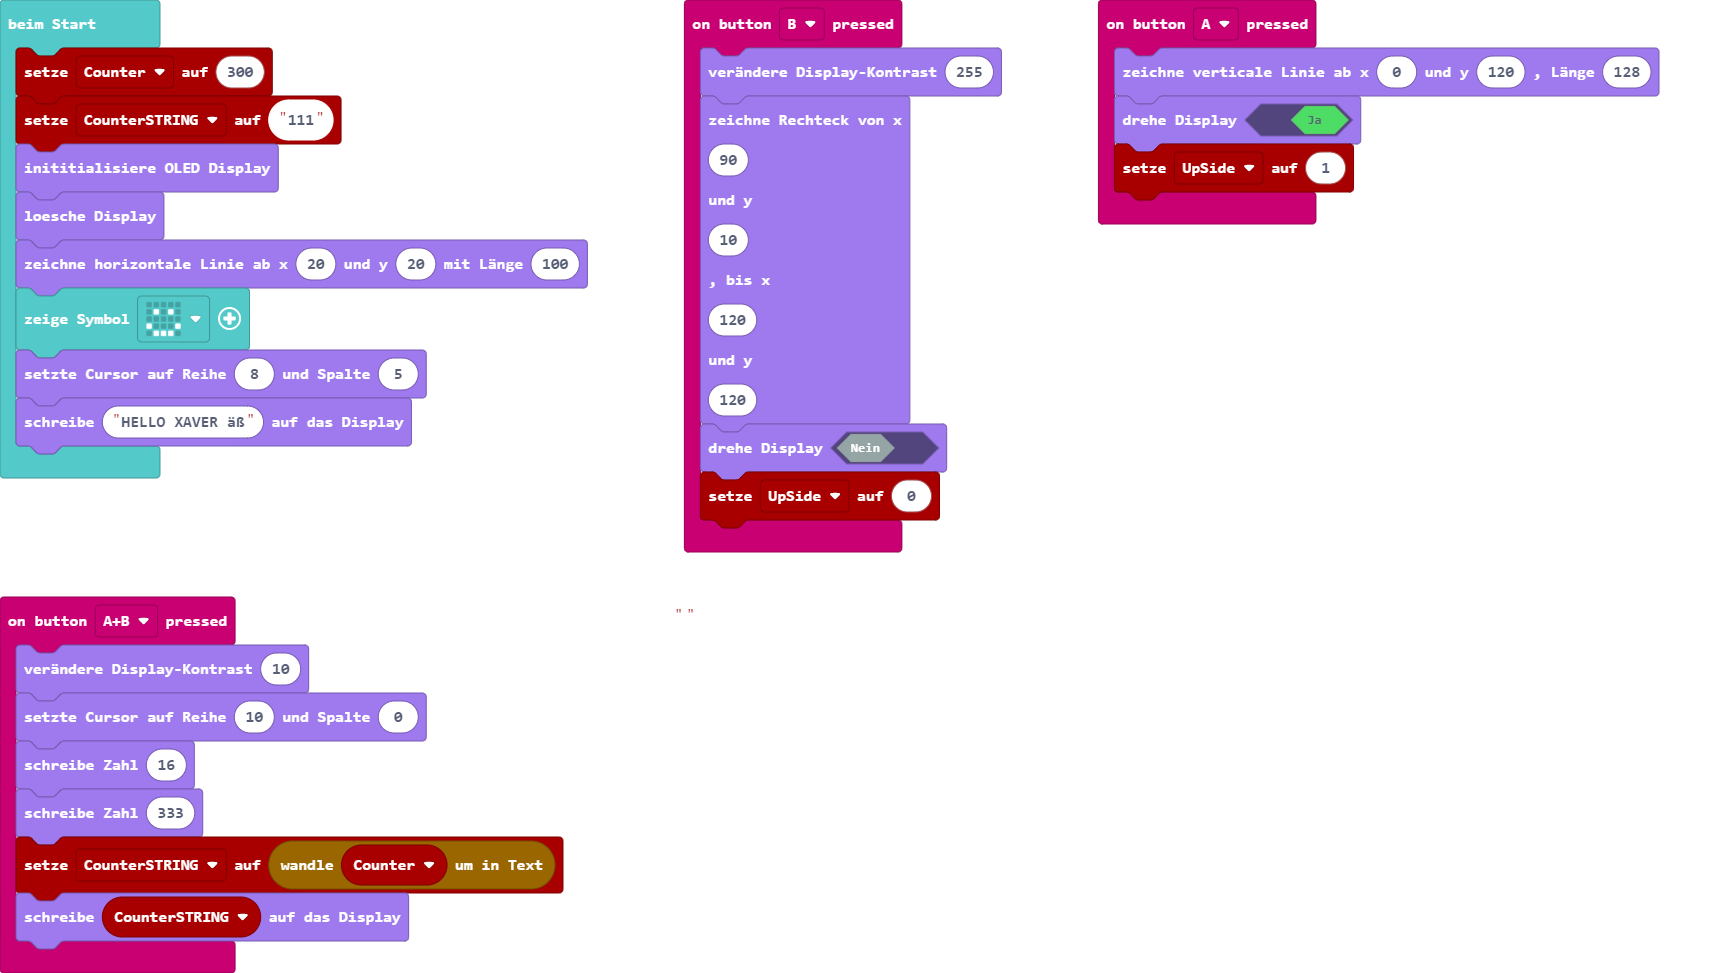
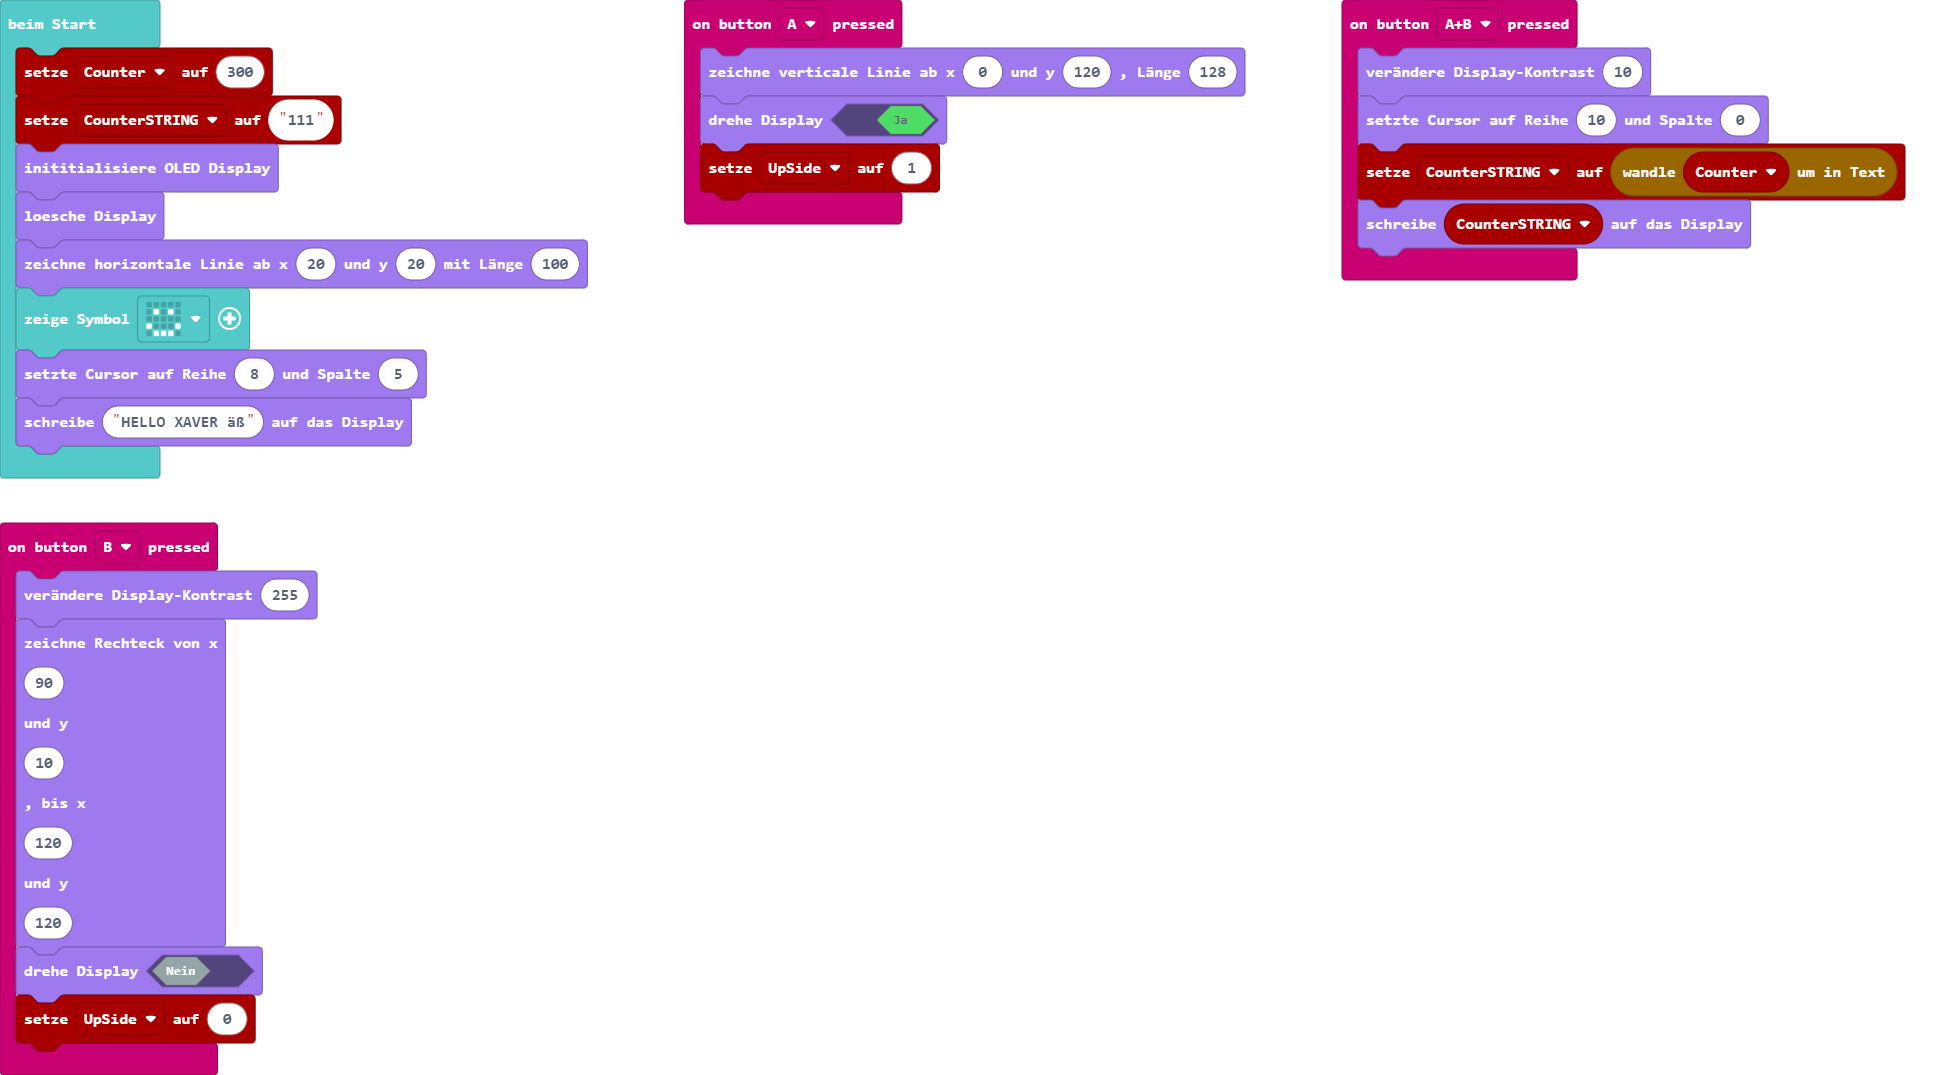
Aktualisiere main.blocks, main.ts, custom.ts

Changed region(s): [[0.0, 0.0, 0.3407, 1.0], [0.3407, 0.0, 0.9912, 0.5858]]

diff --git a/custom.ts b/custom.ts
@@ -59,7 +59,6 @@ namespace groveOledDisplay {
     /**
      * Writes a string at the current cursor position at the display.
      */
-    //% blockId=grove_write_string
     //% block="schreibe %s|auf das Display"
     //% s.defl="Hello"
     //% weight=90
@@ -82,8 +81,8 @@ namespace groveOledDisplay {
     //% blockId=grove_write_custom_char 
     //% advanced=true
     //% block="schreibe eigenes Zeichen %c"
-    //% weight=50
     //% advanced=true
+    //% weight=30
     export function writeCustomChar(c: string) {
         for (let i = 0; i < 8; i++) {
             sendData(c.charCodeAt(i));
@@ -94,7 +93,6 @@ namespace groveOledDisplay {
         /**
          * Initialize the OLED Display
         */
-        //% blockId=grove_oled_init 
         //% block="inititialisiere OLED Display"
         //% advanced=false
         //% weight=100
@@ -126,7 +124,6 @@ namespace groveOledDisplay {
          * @param row which row to display - range from 0 to 15
          * @param col which col to display - range from 0 to 127
         */
-        //% blockId=grove_oled_set_text_xy 
         //% block="setzte Cursor auf Reihe|%row|und Spalte|%col"
         //% row.min=0 row.max=15
         //% col.min=0 col.max=127
@@ -146,7 +143,6 @@ namespace groveOledDisplay {
          * Flip the dispay up side down
          * @param direction Down to flip the display and Up to turn back to normal direction 
          */
-        //% blockId=grove_oled_flip_display 
         //% block="drehe Display $direction"
         //% direction.shadow="toggleYesNo"
         //% advanced=false
@@ -174,8 +170,8 @@ namespace groveOledDisplay {
         /**
          * Clear entire display
         */
-        //% blockId=grove_oled_clear_display 
         //% block="loesche Display"
+        //% advanced=false
         //% weight=99
         export function clearDisplay() {
             for(let i=0; i<16;i++){
@@ -193,8 +189,8 @@ namespace groveOledDisplay {
          * Display an integer number at the current cursor position
          * @param num an integer number to display.
         */
-        //% blockId=grove_oled_put_number 
         //% block="schreibe Zahl |%num|"
+        //% advanced=false
         //% weight=89
         export function putNumber(num:number) {
             
@@ -206,12 +202,11 @@ namespace groveOledDisplay {
          * Adjust the contrast of the display
          * @param num contrast value from 0 to 255.
         */
-        //% blockId=grove_oled_set_contrast 
         //% block="verändere Display-Kontrast |%num|"
         //% num.min=0 num.max=255
         //% num.defl=80
         //% advanced=true
-        //% weight=65
+        //% weight=50
         export function setContrast(num:number) {
              let TempCont = num
                 
@@ -240,11 +235,10 @@ namespace groveOledDisplay {
          * Adjust the background color of the display
          * @param num could be either black or white
         */
-        //% blockId=grove_oled_set_background 
         //% block="verändere Hindergrundfarbe %num"
         //% num.shadow="toggleBlackWhite"
         //% advanced=true
-        //% weight=64
+        //% weight=46
         export function setBackground(num:boolean) {
             if (num){
                 sendCommand(0xA6);               
@@ -262,14 +256,13 @@ namespace groveOledDisplay {
          * @param column_number horizontal size of the bitmap in number of pixels (max 32pixel)
          * @param bitmap array with bitmap data 
         */
-        //% blockId=grove_oled_draw_bitmap 
         //% block="zeichne bitmap bei row|%x_start|und column|%y_start|, size: row|%row_number|und column|%column_number|, bitmap:|%bitmap|"
         //% x.min=0 x.max=15
         //% y.min=0 y.max=127
         //% row_number.min=0 row_number.max=4
         //% column_number.min=0 column_number.max=32
         //% advanced=true
-        //% weight=40
+        //% weight=20
         export function drawBitmap(x_start:number,y_start:number,row_number:number,column_number:number,bitmap:number[]) {
             let x_end = x_start+row_number;
             let y_end = y_start+column_number;
@@ -300,13 +293,12 @@ namespace groveOledDisplay {
          * @param y vertical position (0 - 127)
          * @param data shall be 0x01 for turning on the respective pixel eg. 0x01
         */
-        //% blockId=grove_oled_draw_pixel
-        //% block="zeichne Pixel bei row|%x|und column|%y|, value: |%data|"
+        //% block="zeichne Pixel bei row|%x|und column|%y|, value:|%data|"
         //% x.min=0 x.max=127
         //% y.min=0 y.max=127
-        //% data.defl = 0x01
+        //% data.defl=0x01
         //% advanced=true
-        //% weight=50
+        //% weight=25
         function drawPixel(x: number, y:number, data:number) {
             let xTemp = x;
             let yTemp = y
@@ -328,8 +320,8 @@ namespace groveOledDisplay {
          * @param y defines the vertical (y) start position for the line
          * @param len defines the length of the line in number of pixels
         */
-        //% blockId=grove_oled_draw_hline 
         //% block="zeichne horizontale Linie ab x|%x|und y|%y|mit Länge|%len|"
+        //% advanced=false
         //% weight=70
         //% y.min=0 y.max=127
         //% x.min=0 x.max=127
@@ -348,8 +340,8 @@ namespace groveOledDisplay {
          * @param y defines the vertical (y) start position for the line
          * @param len defines the length of the vertical line in number of pixels
         */
-        //% blockId=grove_oled_draw_vline 
         //% block="zeichne verticale Linie ab x|%x|und y|%y|, Länge|%len|"
+        //% advanced=false
         //% weight=69
         //% y.min=0 y.max=127
         //% x.min=0 x.max=127
@@ -397,10 +389,10 @@ namespace groveOledDisplay {
          * @param x2 x-coordinate for the lower right corner of the rectangle
          * @param y2 y-coordinate for the lower right corner of the rectangle
         */
-        //% blockId=grove_oled_draw_rec 
+ 
         //% block="zeichne Rechteck von x|%x1|und y|%y1|, bis x|%x2|und y|%y2|"
-        //% weight=59
         //% advanced=true
+        //% weight=48
         //% y1.min=0 y1.max=127
         //% x1.min=0 x1.max=127
         //% y2.min=0 y2.max=127

diff --git a/main.ts b/main.ts
@@ -6,8 +6,6 @@ input.onButtonPressed(Button.A, function () {
 input.onButtonPressed(Button.AB, function () {
     groveOledDisplay.setContrast(10)
     groveOledDisplay.setTextXY(10, 0)
-    groveOledDisplay.putNumber(16)
-    groveOledDisplay.putNumber(333)
     CounterSTRING = convertToText(Counter)
     groveOledDisplay.writeString(CounterSTRING)
 })
